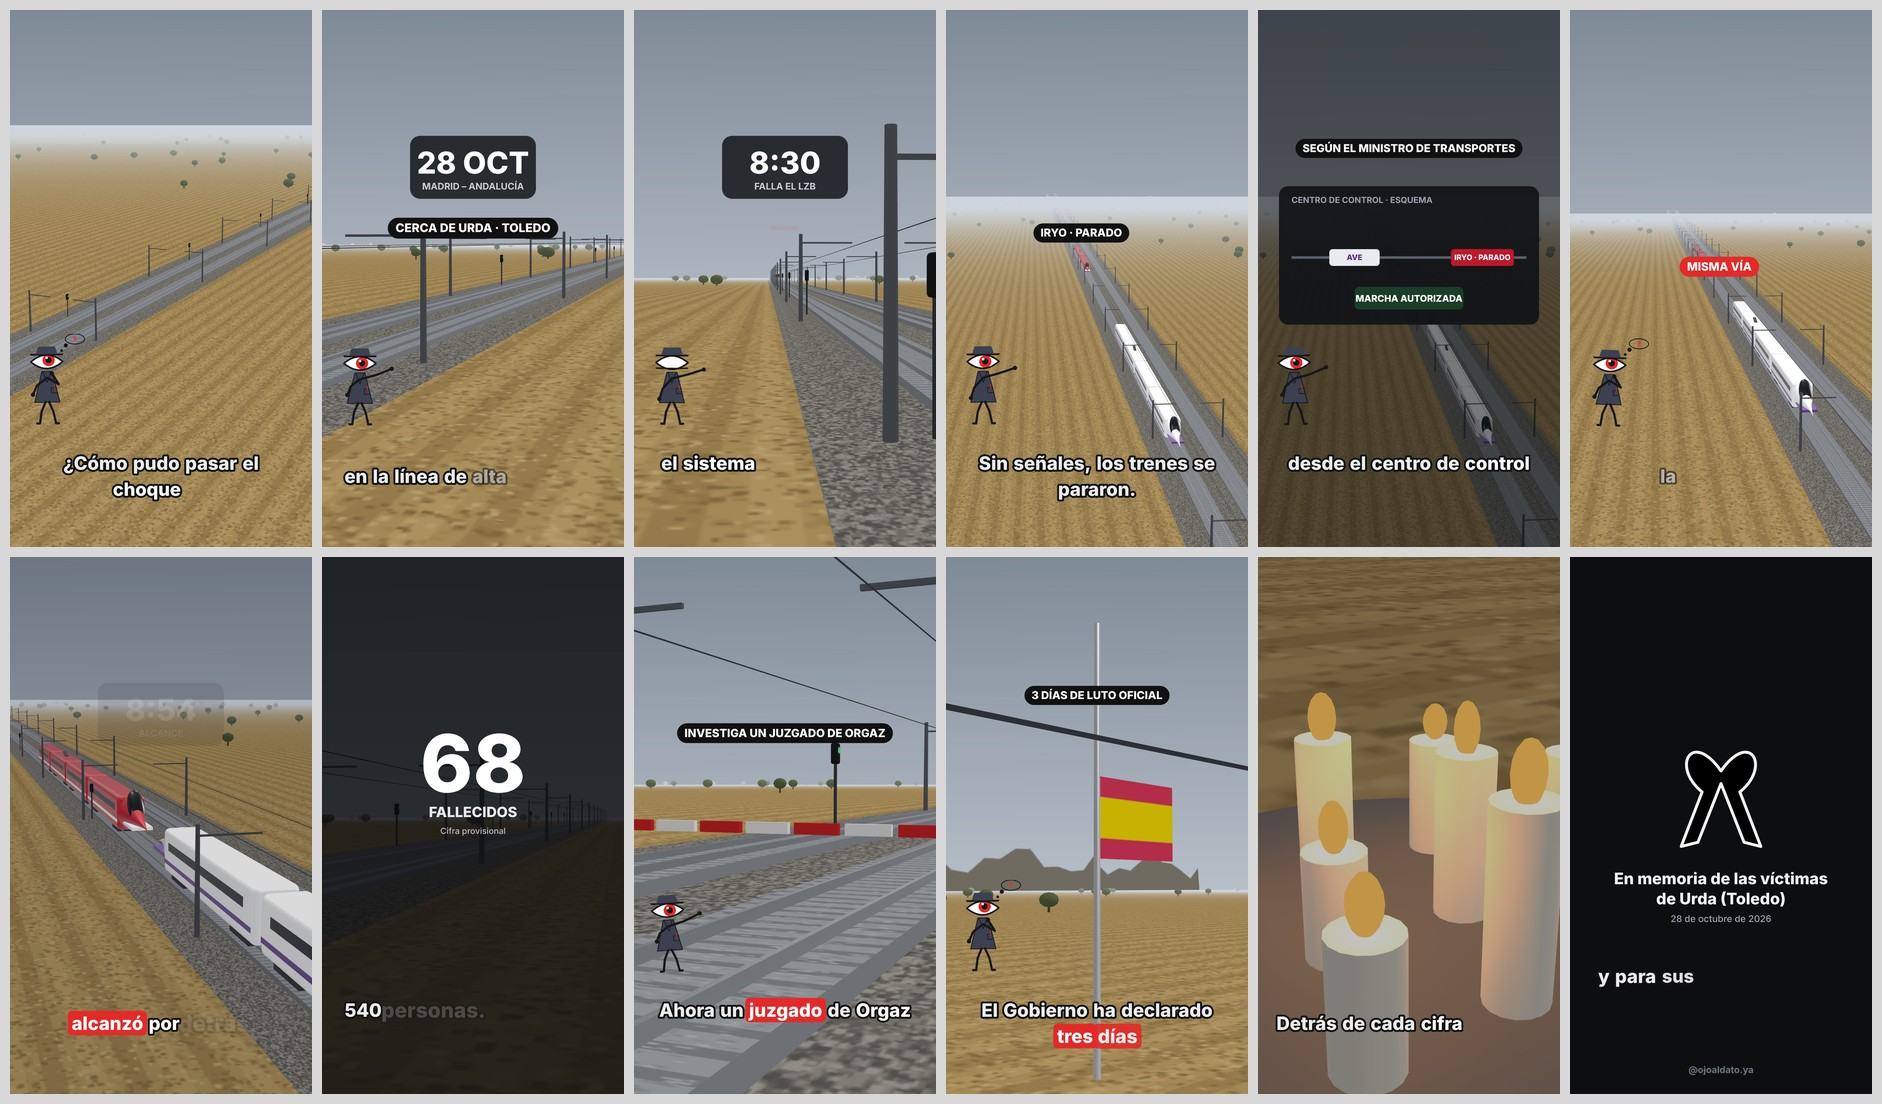
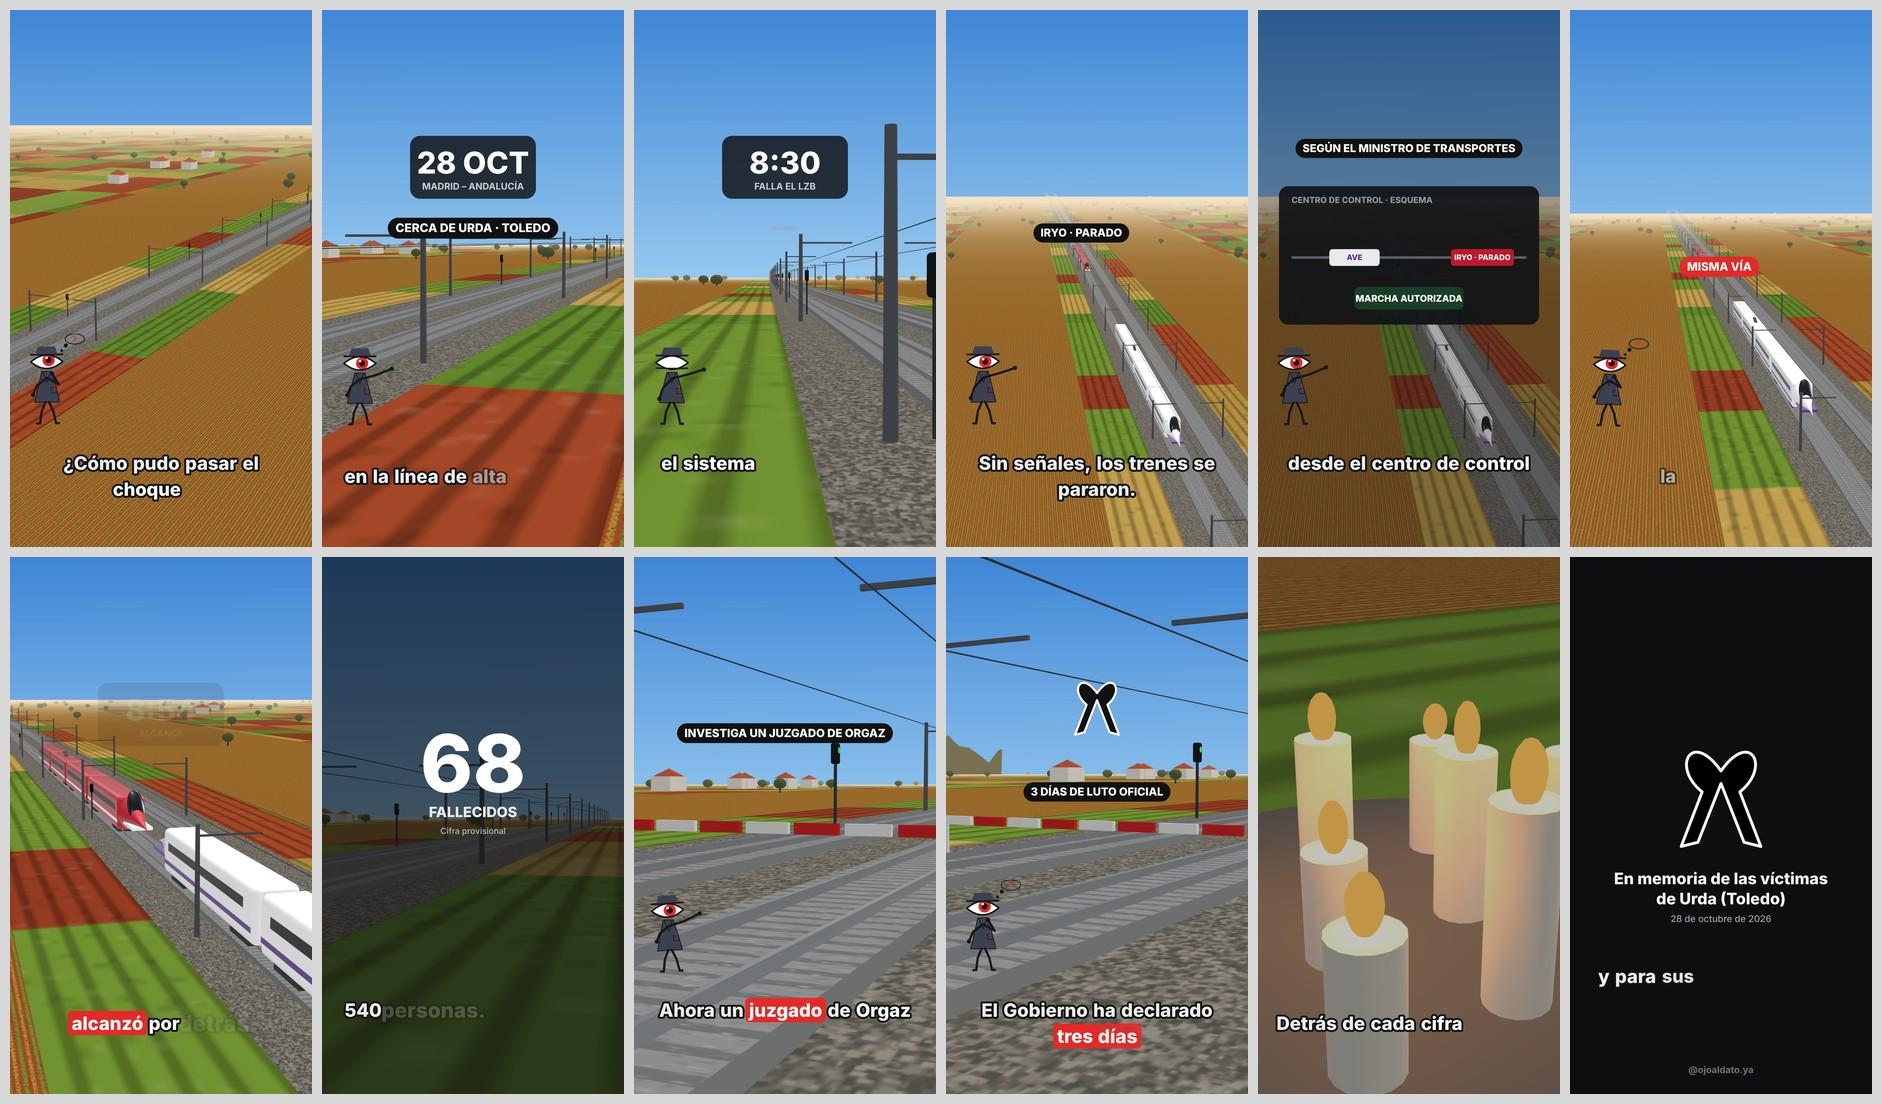
Urda: más color (mañana soleada, viñedos, casas, molinos) y sin bandera
Claude-Session: https://claude.ai/code/session_01EcxTfw3Ni4fF2pF9nvLLFs

diff --git a/content/f3d/urda_scenes.js b/content/f3d/urda_scenes.js
@@ -4,19 +4,27 @@ import { RoundedBoxGeometry } from 'three/addons/geometries/RoundedBoxGeometry.j
 
 const OJO_POSE = ['think', 'point', 'point', 'think', 'think', 'think', 'point', 'point', 'think', 'think', 'think'];
 cam.far = 1200; cam.updateProjectionMatrix();
-scene.fog = new THREE.Fog(0xcfd5dc, 160, 900);
+scene.fog = new THREE.Fog(0xf3e2c4, 220, 1100);
 
 // texturas
 const UT = {
-  field: canvasTex(256, 256, (x, w, h) => { x.fillStyle = '#b89a62'; x.fillRect(0, 0, w, h);
-    for (let i = 0; i < 16; i++) { x.fillStyle = i % 2 ? '#a88a55' : '#c2a46b'; x.fillRect(0, i * 16, w, 9); }
-    noise(x, w, h, 5000, ['#9c7f4c', '#cbb07a', '#ae905a', '#8f7445'], 2); }, 120, 120),
+  field: canvasTex(512, 512, (x, w, h) => {   // mosaico de parcelas: viñas, rastrojo, tierra roja, verde
+    const P = ['#b9532f', '#c9a14a', '#7fa83a', '#d8b65c', '#a8462a', '#95b84a', '#c98b3c', '#6f9a34'];
+    const r = rng(9); let y = 0;
+    while (y < h) { const hh = 40 + r() * 90; let xx = 0;
+      while (xx < w) { const ww = 60 + r() * 160, c = P[(r() * P.length) | 0]; x.fillStyle = c; x.fillRect(xx, y, ww, hh);
+        x.globalAlpha = 0.25; x.fillStyle = '#000'; for (let k = 0; k < hh; k += 6) x.fillRect(xx, y + k, ww, 2); x.globalAlpha = 1; xx += ww; }
+      y += hh; }
+    noise(x, w, h, 6000, ['rgba(0,0,0,0.12)', 'rgba(255,255,255,0.10)'], 2); }, 18, 18),
+  vines: canvasTex(256, 256, (x, w, h) => { x.fillStyle = '#b4532f'; x.fillRect(0, 0, w, h);
+    for (let i = 0; i < 16; i++) { x.fillStyle = i % 2 ? '#7da33a' : '#c99a3a'; for (let j = 0; j < 32; j++) { x.beginPath(); x.arc(j * 8 + 4, i * 16 + 8, 4.5, 0, 7); x.fill(); } }
+    noise(x, w, h, 3000, ['#9c4527', '#c8643a', '#5f8a2c'], 2); }, 160, 12),
   slab: canvasTex(64, 256, (x, w, h) => { x.fillStyle = '#9ea2a6'; x.fillRect(0, 0, w, h);
     for (let i = 0; i < 8; i++) { x.fillStyle = '#7f8387'; x.fillRect(0, i * 32 + 4, w, 12); } noise(x, w, h, 600, ['#8d9195', '#b0b4b8'], 2); }, 1, 400),
   ballast: canvasTex(128, 128, (x, w, h) => { x.fillStyle = '#7d7a74'; x.fillRect(0, 0, w, h); noise(x, w, h, 4000, ['#6a6761', '#8f8b84', '#5c5a55', '#a39f97'], 3); }, 300, 4),
   hills: canvasTex(512, 128, (x, w, h) => { const g = x.createLinearGradient(0, 0, 0, h); g.addColorStop(0, 'rgba(0,0,0,0)'); x.fillStyle = g; x.fillRect(0, 0, w, h);
-    x.fillStyle = '#8f8a7c'; x.beginPath(); x.moveTo(0, h); for (let i = 0; i <= 32; i++) x.lineTo(i * w / 32, h * 0.45 + Math.sin(i * 0.9) * 14 + Math.sin(i * 2.3) * 7); x.lineTo(w, h); x.fill(); }, 4, 1),
-  sky: canvasTex(4, 256, (x, w, h) => { const g = x.createLinearGradient(0, 0, 0, h); g.addColorStop(0, '#7f8a97'); g.addColorStop(0.65, '#b9c1ca'); g.addColorStop(1, '#d9dee3'); x.fillStyle = g; x.fillRect(0, 0, w, h); }),
+    x.fillStyle = '#9c8f6a'; x.beginPath(); x.moveTo(0, h); for (let i = 0; i <= 32; i++) x.lineTo(i * w / 32, h * 0.45 + Math.sin(i * 0.9) * 14 + Math.sin(i * 2.3) * 7); x.lineTo(w, h); x.fill(); }, 4, 1),
+  sky: canvasTex(4, 256, (x, w, h) => { const g = x.createLinearGradient(0, 0, 0, h); g.addColorStop(0, '#3f86d6'); g.addColorStop(0.55, '#9fcff1'); g.addColorStop(0.85, '#ffe3bd'); g.addColorStop(1, '#ffd29a'); x.fillStyle = g; x.fillRect(0, 0, w, h); }),
 };
 UT.hills.wrapT = THREE.ClampToEdgeWrapping; UT.hills.transparent = true;
 UT.sky.wrapS = UT.sky.wrapT = THREE.ClampToEdgeWrapping;
@@ -44,6 +52,18 @@ const rail = new THREE.Group(); scene.add(rail);
     const c = new THREE.Mesh(new THREE.SphereGeometry(1.6 + tr(), 8, 6), crown); c.scale.y = 0.75; c.position.set(x, 2.1, z); rail.add(c);
     const k = new THREE.Mesh(new THREE.CylinderGeometry(0.18, 0.25, 1.6, 6), trunk); k.position.set(x, 0.6, z); rail.add(k);
   }
+  for (const z of [-44, 50]) { const v = new THREE.Mesh(new THREE.PlaneGeometry(1600, 60), new THREE.MeshLambertMaterial({ map: UT.vines })); v.rotation.x = -Math.PI / 2; v.position.set(0, -0.2, z); rail.add(v); }
+  const wall = new THREE.MeshLambertMaterial({ color: 0xf6f3ec }), roofM = new THREE.MeshLambertMaterial({ color: 0xc0583a });
+  const hr = rng(21);
+  for (let i = 0; i < 26; i++) { const x = (hr() - 0.5) * 1300, z = (hr() < 0.5 ? -1 : 1) * (90 + hr() * 300);
+    const h = new THREE.Mesh(new THREE.BoxGeometry(9, 4, 6), wall); h.position.set(x, 2, z); rail.add(h);
+    const r = new THREE.Mesh(new THREE.CylinderGeometry(0.01, 6, 2.2, 4), roofM); r.rotation.y = Math.PI / 4; r.scale.set(1.1, 1, 0.75); r.position.set(x, 5.1, z); rail.add(r); }
+  for (let i = 0; i < 7; i++) { const m = new THREE.Group(); m.position.set(-260 + i * 38, 22, -560);
+    const tw = new THREE.Mesh(new THREE.CylinderGeometry(3.2, 3.8, 12, 16), wall); tw.position.y = 6; m.add(tw);
+    const cap = new THREE.Mesh(new THREE.ConeGeometry(3.6, 4, 16), new THREE.MeshLambertMaterial({ color: 0x2b2b2b })); cap.position.y = 14; m.add(cap);
+    for (let k = 0; k < 4; k++) { const sail = new THREE.Mesh(new THREE.BoxGeometry(0.5, 9, 0.2), new THREE.MeshLambertMaterial({ color: 0x6b4a33 }));
+      sail.position.set(0, 12 + Math.cos(k * Math.PI / 2 + i) * 4.5, 3.9 + 0); sail.position.x = Math.sin(k * Math.PI / 2 + i) * 4.5; sail.rotation.z = -(k * Math.PI / 2 + i); m.add(sail); }
+    rail.add(m); }
   const hl = new THREE.Mesh(new THREE.PlaneGeometry(3000, 120), new THREE.MeshBasicMaterial({ map: UT.hills, transparent: true, fog: false, color: 0xc8c8c8 })); hl.position.set(0, 30, -700); rail.add(hl);
 }
 
@@ -127,7 +147,7 @@ const candles = new THREE.Group(); scene.add(candles);
   candles.position.set(40, 0.0, -6);
 }
 
-function setBg() { scene.background = UT.sky; }
+function setBg() { scene.background = UT.sky; sun.color.setHex(0xfff0d8); }
 const LOOK = new THREE.Vector3();
 const prevFrame = document.createElement('canvas'); prevFrame.width = W * PR; prevFrame.height = H * PR; let prevA = 0;
 function setCam(px, py, pz, lx, ly, lz, up) { cam.up.set(...(up || [0, 1, 0])); cam.position.set(px, py, pz); LOOK.set(lx, ly, lz); cam.fov = 38; cam.updateProjectionMatrix(); cam.lookAt(lx, ly, lz); cam.updateMatrixWorld(); }
@@ -166,7 +186,7 @@ const SC = [
     const pi = proj(new THREE.Vector3(-30, 6, 0)), pa = proj(new THREE.Vector3(-245, 6, 0));
     return [['pill', pi[0], pi[1] - 40, 'IRYO · PARADO', clamp((u - 0.15) * 4)], ['pill', pa[0], pa[1] - 40, 'AVE · PARADO', clamp((u - 0.45) * 4), CSS_RED]]; },
   // 4 · el centro de control autoriza seguir (según el ministro)
-  (t, u) => { ave.visible = true; ave.position.x = -215; setCam(-420, 48, -24, -90, 0, 3); DIM = 0.55;
+  (t, u) => { ave.visible = true; ave.position.x = -215; setCam(-420, 48, -24, -90, 0, 3); DIM = 0.35;
     return [['panel', u], ['pill', W / 2, 330, 'SEGÚN EL MINISTRO DE TRANSPORTES', clamp(u * 4)]]; },
   // 5 · el AVE arranca por la misma vía y se acerca
   (t, u) => { ave.visible = true; ave.position.x = lerp(-215, -165, ease(u)); setCam(lerp(-400, -340, u), 30, -20, -100, 0, 3);
@@ -181,16 +201,16 @@ const SC = [
     cs[3].position.z = 5.2 * d; cs[3].rotation.set(0.25 * d, 0.16 * d, 0); cs[3].position.y = -0.4 * d; cs[3].position.x = -61.8 + 2.5 * d;
     cs[2].position.z = 2.4 * clamp((u - hit - 0.05) / 0.4); cs[2].rotation.set(0.12 * d, 0.08 * d, 0);
     ave.userData.cars[0].rotation.x = 0.03 * d;
-    setCam(-150, 15, -17, -72, 1, 3); DIM = 0.15 + 0.25 * d;
+    setCam(-150, 15, -17, -72, 1, 3); DIM = 0.1 * d;
     return [['clock', '8:54', 'ALCANCE', clamp((u - hit + 0.05) * 6)]]; },
   // 7 · las víctimas
-  (t, u) => { iryo.visible = false; setCam(-20, 3, 18, 60, 2, 3); DIM = 0.8;
+  (t, u) => { iryo.visible = false; setCam(-20, 3, 18, 60, 2, 3); DIM = 0.62;
     return [['bignum', '68', 'FALLECIDOS', clamp(u * 3)], ['pill', W / 2, 760, '≈540 VIAJEROS · MÁS DE 100 HERIDOS', clamp((u - 0.45) * 4)]]; },
   // 8 · la investigación
   (t, u) => { iryo.visible = false; tape.visible = true; setCam(14, 2.2, 10, 31, 1.2, 3); return [['pill', W / 2, 420, 'INVESTIGA UN JUZGADO DE ORGAZ', clamp((u - 0.2) * 4)]]; },
-  // 9 · luto oficial y línea cortada
-  (t, u) => { iryo.visible = false; flag.visible = true; tape.visible = true; const cl = flag.userData.cloth; cl.rotation.y = Math.sin(t * 1.4) * 0.15;
-    setCam(-6, 4.5, 4, 8, 6, -9); return [['pill', W / 2, 330, '3 DÍAS DE LUTO OFICIAL', clamp(u * 4)], ['pill', W / 2, 400, 'LÍNEA MADRID–ANDALUCÍA CORTADA', clamp((u - 0.4) * 4), CSS_RED]]; },
+  // 9 · luto oficial y línea cortada (sin bandera, Iker 29/10)
+  (t, u) => { iryo.visible = false; tape.visible = true; setCam(12, 2.6, 13, 30, 1.2, 3);
+    return [['ribbon', clamp(u * 3)], ['pill', W / 2, 560, '3 DÍAS DE LUTO OFICIAL', clamp((u - 0.15) * 4)], ['pill', W / 2, 630, 'LÍNEA MADRID–ANDALUCÍA CORTADA', clamp((u - 0.4) * 4), CSS_RED]]; },
   // 10 · recuerdo: velas
   (t, u) => { iryo.visible = false; candles.visible = true; sun.intensity = 0.5; DIM = 0.25;
     candles.children.forEach((c, i) => { if (c.userData.flame) c.userData.flame.scale.set(1 + Math.sin(t * 9 + i) * 0.12, 1.8 + Math.sin(t * 7 + i * 2) * 0.25, 1); });
@@ -234,6 +254,12 @@ function controlPanel(u) {
   rrect(W / 2 - 130, 660, 260, 54, 12); ctx.fillStyle = on ? '#1fa85a' : '#1a3d28'; ctx.fill(); ctx.fillStyle = '#fff'; ctx.font = F(800, 22);
   ctx.fillText('MARCHA AUTORIZADA', W / 2, 695); ctx.restore();
 }
+function ribbon(u) {
+  if (u <= 0) return; ctx.save(); ctx.globalAlpha = clamp(u * 2); ctx.translate(W / 2, 330); const k = 0.55 * eob(u); ctx.scale(k, k);
+  ctx.lineJoin = 'round'; ctx.lineWidth = 9; ctx.strokeStyle = '#fff'; ctx.fillStyle = '#111';
+  ctx.beginPath(); ctx.moveTo(0, -10); ctx.bezierCurveTo(-70, -110, -120, -20, -45, 40); ctx.lineTo(-95, 170); ctx.lineTo(-55, 160); ctx.lineTo(0, 20);
+  ctx.lineTo(55, 160); ctx.lineTo(95, 170); ctx.lineTo(45, 40); ctx.bezierCurveTo(120, -20, 70, -110, 0, -10); ctx.closePath(); ctx.fill(); ctx.stroke(); ctx.restore();
+}
 function memorialCard(t, u) {
   ctx.save(); ctx.globalAlpha = clamp(u * 1.5); ctx.fillStyle = '#0d0e10'; ctx.fillRect(0, 0, W, H);
   // lazo negro con borde blanco
@@ -252,7 +278,7 @@ function sceneAt(t) { const n = T.lines.length; for (let i = n - 1; i >= 0; i--)
 function drawUi(ui) {
   for (const it of ui) { const [k, ...a] = it;
     if (k === 'pill') pill(...a); else if (k === 'clock') clockCard(...a); else if (k === 'people') peopleGrid(...a);
-    else if (k === 'bignum') bigNum(...a); else if (k === 'panel') controlPanel(...a); }
+    else if (k === 'bignum') bigNum(...a); else if (k === 'panel') controlPanel(...a); else if (k === 'ribbon') ribbon(...a); }
 }
 function render3(si, t, L, end) {
   hideAll(); setBg();

diff --git a/content/f3d/urda.js b/content/f3d/urda.js
@@ -515,19 +515,27 @@ function outroCard(t, u) {
 
 const OJO_POSE = ['think', 'point', 'point', 'think', 'think', 'think', 'point', 'point', 'think', 'think', 'think'];
 cam.far = 1200; cam.updateProjectionMatrix();
-scene.fog = new THREE.Fog(0xcfd5dc, 160, 900);
+scene.fog = new THREE.Fog(0xf3e2c4, 220, 1100);
 
 // texturas
 const UT = {
-  field: canvasTex(256, 256, (x, w, h) => { x.fillStyle = '#b89a62'; x.fillRect(0, 0, w, h);
-    for (let i = 0; i < 16; i++) { x.fillStyle = i % 2 ? '#a88a55' : '#c2a46b'; x.fillRect(0, i * 16, w, 9); }
-    noise(x, w, h, 5000, ['#9c7f4c', '#cbb07a', '#ae905a', '#8f7445'], 2); }, 120, 120),
+  field: canvasTex(512, 512, (x, w, h) => {   // mosaico de parcelas: viñas, rastrojo, tierra roja, verde
+    const P = ['#b9532f', '#c9a14a', '#7fa83a', '#d8b65c', '#a8462a', '#95b84a', '#c98b3c', '#6f9a34'];
+    const r = rng(9); let y = 0;
+    while (y < h) { const hh = 40 + r() * 90; let xx = 0;
+      while (xx < w) { const ww = 60 + r() * 160, c = P[(r() * P.length) | 0]; x.fillStyle = c; x.fillRect(xx, y, ww, hh);
+        x.globalAlpha = 0.25; x.fillStyle = '#000'; for (let k = 0; k < hh; k += 6) x.fillRect(xx, y + k, ww, 2); x.globalAlpha = 1; xx += ww; }
+      y += hh; }
+    noise(x, w, h, 6000, ['rgba(0,0,0,0.12)', 'rgba(255,255,255,0.10)'], 2); }, 18, 18),
+  vines: canvasTex(256, 256, (x, w, h) => { x.fillStyle = '#b4532f'; x.fillRect(0, 0, w, h);
+    for (let i = 0; i < 16; i++) { x.fillStyle = i % 2 ? '#7da33a' : '#c99a3a'; for (let j = 0; j < 32; j++) { x.beginPath(); x.arc(j * 8 + 4, i * 16 + 8, 4.5, 0, 7); x.fill(); } }
+    noise(x, w, h, 3000, ['#9c4527', '#c8643a', '#5f8a2c'], 2); }, 160, 12),
   slab: canvasTex(64, 256, (x, w, h) => { x.fillStyle = '#9ea2a6'; x.fillRect(0, 0, w, h);
     for (let i = 0; i < 8; i++) { x.fillStyle = '#7f8387'; x.fillRect(0, i * 32 + 4, w, 12); } noise(x, w, h, 600, ['#8d9195', '#b0b4b8'], 2); }, 1, 400),
   ballast: canvasTex(128, 128, (x, w, h) => { x.fillStyle = '#7d7a74'; x.fillRect(0, 0, w, h); noise(x, w, h, 4000, ['#6a6761', '#8f8b84', '#5c5a55', '#a39f97'], 3); }, 300, 4),
   hills: canvasTex(512, 128, (x, w, h) => { const g = x.createLinearGradient(0, 0, 0, h); g.addColorStop(0, 'rgba(0,0,0,0)'); x.fillStyle = g; x.fillRect(0, 0, w, h);
-    x.fillStyle = '#8f8a7c'; x.beginPath(); x.moveTo(0, h); for (let i = 0; i <= 32; i++) x.lineTo(i * w / 32, h * 0.45 + Math.sin(i * 0.9) * 14 + Math.sin(i * 2.3) * 7); x.lineTo(w, h); x.fill(); }, 4, 1),
-  sky: canvasTex(4, 256, (x, w, h) => { const g = x.createLinearGradient(0, 0, 0, h); g.addColorStop(0, '#7f8a97'); g.addColorStop(0.65, '#b9c1ca'); g.addColorStop(1, '#d9dee3'); x.fillStyle = g; x.fillRect(0, 0, w, h); }),
+    x.fillStyle = '#9c8f6a'; x.beginPath(); x.moveTo(0, h); for (let i = 0; i <= 32; i++) x.lineTo(i * w / 32, h * 0.45 + Math.sin(i * 0.9) * 14 + Math.sin(i * 2.3) * 7); x.lineTo(w, h); x.fill(); }, 4, 1),
+  sky: canvasTex(4, 256, (x, w, h) => { const g = x.createLinearGradient(0, 0, 0, h); g.addColorStop(0, '#3f86d6'); g.addColorStop(0.55, '#9fcff1'); g.addColorStop(0.85, '#ffe3bd'); g.addColorStop(1, '#ffd29a'); x.fillStyle = g; x.fillRect(0, 0, w, h); }),
 };
 UT.hills.wrapT = THREE.ClampToEdgeWrapping; UT.hills.transparent = true;
 UT.sky.wrapS = UT.sky.wrapT = THREE.ClampToEdgeWrapping;
@@ -555,6 +563,18 @@ const rail = new THREE.Group(); scene.add(rail);
     const c = new THREE.Mesh(new THREE.SphereGeometry(1.6 + tr(), 8, 6), crown); c.scale.y = 0.75; c.position.set(x, 2.1, z); rail.add(c);
     const k = new THREE.Mesh(new THREE.CylinderGeometry(0.18, 0.25, 1.6, 6), trunk); k.position.set(x, 0.6, z); rail.add(k);
   }
+  for (const z of [-44, 50]) { const v = new THREE.Mesh(new THREE.PlaneGeometry(1600, 60), new THREE.MeshLambertMaterial({ map: UT.vines })); v.rotation.x = -Math.PI / 2; v.position.set(0, -0.2, z); rail.add(v); }
+  const wall = new THREE.MeshLambertMaterial({ color: 0xf6f3ec }), roofM = new THREE.MeshLambertMaterial({ color: 0xc0583a });
+  const hr = rng(21);
+  for (let i = 0; i < 26; i++) { const x = (hr() - 0.5) * 1300, z = (hr() < 0.5 ? -1 : 1) * (90 + hr() * 300);
+    const h = new THREE.Mesh(new THREE.BoxGeometry(9, 4, 6), wall); h.position.set(x, 2, z); rail.add(h);
+    const r = new THREE.Mesh(new THREE.CylinderGeometry(0.01, 6, 2.2, 4), roofM); r.rotation.y = Math.PI / 4; r.scale.set(1.1, 1, 0.75); r.position.set(x, 5.1, z); rail.add(r); }
+  for (let i = 0; i < 7; i++) { const m = new THREE.Group(); m.position.set(-260 + i * 38, 22, -560);
+    const tw = new THREE.Mesh(new THREE.CylinderGeometry(3.2, 3.8, 12, 16), wall); tw.position.y = 6; m.add(tw);
+    const cap = new THREE.Mesh(new THREE.ConeGeometry(3.6, 4, 16), new THREE.MeshLambertMaterial({ color: 0x2b2b2b })); cap.position.y = 14; m.add(cap);
+    for (let k = 0; k < 4; k++) { const sail = new THREE.Mesh(new THREE.BoxGeometry(0.5, 9, 0.2), new THREE.MeshLambertMaterial({ color: 0x6b4a33 }));
+      sail.position.set(0, 12 + Math.cos(k * Math.PI / 2 + i) * 4.5, 3.9 + 0); sail.position.x = Math.sin(k * Math.PI / 2 + i) * 4.5; sail.rotation.z = -(k * Math.PI / 2 + i); m.add(sail); }
+    rail.add(m); }
   const hl = new THREE.Mesh(new THREE.PlaneGeometry(3000, 120), new THREE.MeshBasicMaterial({ map: UT.hills, transparent: true, fog: false, color: 0xc8c8c8 })); hl.position.set(0, 30, -700); rail.add(hl);
 }
 
@@ -638,7 +658,7 @@ const candles = new THREE.Group(); scene.add(candles);
   candles.position.set(40, 0.0, -6);
 }
 
-function setBg() { scene.background = UT.sky; }
+function setBg() { scene.background = UT.sky; sun.color.setHex(0xfff0d8); }
 const LOOK = new THREE.Vector3();
 const prevFrame = document.createElement('canvas'); prevFrame.width = W * PR; prevFrame.height = H * PR; let prevA = 0;
 function setCam(px, py, pz, lx, ly, lz, up) { cam.up.set(...(up || [0, 1, 0])); cam.position.set(px, py, pz); LOOK.set(lx, ly, lz); cam.fov = 38; cam.updateProjectionMatrix(); cam.lookAt(lx, ly, lz); cam.updateMatrixWorld(); }
@@ -677,7 +697,7 @@ const SC = [
     const pi = proj(new THREE.Vector3(-30, 6, 0)), pa = proj(new THREE.Vector3(-245, 6, 0));
     return [['pill', pi[0], pi[1] - 40, 'IRYO · PARADO', clamp((u - 0.15) * 4)], ['pill', pa[0], pa[1] - 40, 'AVE · PARADO', clamp((u - 0.45) * 4), CSS_RED]]; },
   // 4 · el centro de control autoriza seguir (según el ministro)
-  (t, u) => { ave.visible = true; ave.position.x = -215; setCam(-420, 48, -24, -90, 0, 3); DIM = 0.55;
+  (t, u) => { ave.visible = true; ave.position.x = -215; setCam(-420, 48, -24, -90, 0, 3); DIM = 0.35;
     return [['panel', u], ['pill', W / 2, 330, 'SEGÚN EL MINISTRO DE TRANSPORTES', clamp(u * 4)]]; },
   // 5 · el AVE arranca por la misma vía y se acerca
   (t, u) => { ave.visible = true; ave.position.x = lerp(-215, -165, ease(u)); setCam(lerp(-400, -340, u), 30, -20, -100, 0, 3);
@@ -692,16 +712,16 @@ const SC = [
     cs[3].position.z = 5.2 * d; cs[3].rotation.set(0.25 * d, 0.16 * d, 0); cs[3].position.y = -0.4 * d; cs[3].position.x = -61.8 + 2.5 * d;
     cs[2].position.z = 2.4 * clamp((u - hit - 0.05) / 0.4); cs[2].rotation.set(0.12 * d, 0.08 * d, 0);
     ave.userData.cars[0].rotation.x = 0.03 * d;
-    setCam(-150, 15, -17, -72, 1, 3); DIM = 0.15 + 0.25 * d;
+    setCam(-150, 15, -17, -72, 1, 3); DIM = 0.1 * d;
     return [['clock', '8:54', 'ALCANCE', clamp((u - hit + 0.05) * 6)]]; },
   // 7 · las víctimas
-  (t, u) => { iryo.visible = false; setCam(-20, 3, 18, 60, 2, 3); DIM = 0.8;
+  (t, u) => { iryo.visible = false; setCam(-20, 3, 18, 60, 2, 3); DIM = 0.62;
     return [['bignum', '68', 'FALLECIDOS', clamp(u * 3)], ['pill', W / 2, 760, '≈540 VIAJEROS · MÁS DE 100 HERIDOS', clamp((u - 0.45) * 4)]]; },
   // 8 · la investigación
   (t, u) => { iryo.visible = false; tape.visible = true; setCam(14, 2.2, 10, 31, 1.2, 3); return [['pill', W / 2, 420, 'INVESTIGA UN JUZGADO DE ORGAZ', clamp((u - 0.2) * 4)]]; },
-  // 9 · luto oficial y línea cortada
-  (t, u) => { iryo.visible = false; flag.visible = true; tape.visible = true; const cl = flag.userData.cloth; cl.rotation.y = Math.sin(t * 1.4) * 0.15;
-    setCam(-6, 4.5, 4, 8, 6, -9); return [['pill', W / 2, 330, '3 DÍAS DE LUTO OFICIAL', clamp(u * 4)], ['pill', W / 2, 400, 'LÍNEA MADRID–ANDALUCÍA CORTADA', clamp((u - 0.4) * 4), CSS_RED]]; },
+  // 9 · luto oficial y línea cortada (sin bandera, Iker 29/10)
+  (t, u) => { iryo.visible = false; tape.visible = true; setCam(12, 2.6, 13, 30, 1.2, 3);
+    return [['ribbon', clamp(u * 3)], ['pill', W / 2, 560, '3 DÍAS DE LUTO OFICIAL', clamp((u - 0.15) * 4)], ['pill', W / 2, 630, 'LÍNEA MADRID–ANDALUCÍA CORTADA', clamp((u - 0.4) * 4), CSS_RED]]; },
   // 10 · recuerdo: velas
   (t, u) => { iryo.visible = false; candles.visible = true; sun.intensity = 0.5; DIM = 0.25;
     candles.children.forEach((c, i) => { if (c.userData.flame) c.userData.flame.scale.set(1 + Math.sin(t * 9 + i) * 0.12, 1.8 + Math.sin(t * 7 + i * 2) * 0.25, 1); });
@@ -745,6 +765,12 @@ function controlPanel(u) {
   rrect(W / 2 - 130, 660, 260, 54, 12); ctx.fillStyle = on ? '#1fa85a' : '#1a3d28'; ctx.fill(); ctx.fillStyle = '#fff'; ctx.font = F(800, 22);
   ctx.fillText('MARCHA AUTORIZADA', W / 2, 695); ctx.restore();
 }
+function ribbon(u) {
+  if (u <= 0) return; ctx.save(); ctx.globalAlpha = clamp(u * 2); ctx.translate(W / 2, 330); const k = 0.55 * eob(u); ctx.scale(k, k);
+  ctx.lineJoin = 'round'; ctx.lineWidth = 9; ctx.strokeStyle = '#fff'; ctx.fillStyle = '#111';
+  ctx.beginPath(); ctx.moveTo(0, -10); ctx.bezierCurveTo(-70, -110, -120, -20, -45, 40); ctx.lineTo(-95, 170); ctx.lineTo(-55, 160); ctx.lineTo(0, 20);
+  ctx.lineTo(55, 160); ctx.lineTo(95, 170); ctx.lineTo(45, 40); ctx.bezierCurveTo(120, -20, 70, -110, 0, -10); ctx.closePath(); ctx.fill(); ctx.stroke(); ctx.restore();
+}
 function memorialCard(t, u) {
   ctx.save(); ctx.globalAlpha = clamp(u * 1.5); ctx.fillStyle = '#0d0e10'; ctx.fillRect(0, 0, W, H);
   // lazo negro con borde blanco
@@ -763,7 +789,7 @@ function sceneAt(t) { const n = T.lines.length; for (let i = n - 1; i >= 0; i--)
 function drawUi(ui) {
   for (const it of ui) { const [k, ...a] = it;
     if (k === 'pill') pill(...a); else if (k === 'clock') clockCard(...a); else if (k === 'people') peopleGrid(...a);
-    else if (k === 'bignum') bigNum(...a); else if (k === 'panel') controlPanel(...a); }
+    else if (k === 'bignum') bigNum(...a); else if (k === 'panel') controlPanel(...a); else if (k === 'ribbon') ribbon(...a); }
 }
 function render3(si, t, L, end) {
   hideAll(); setBg();
